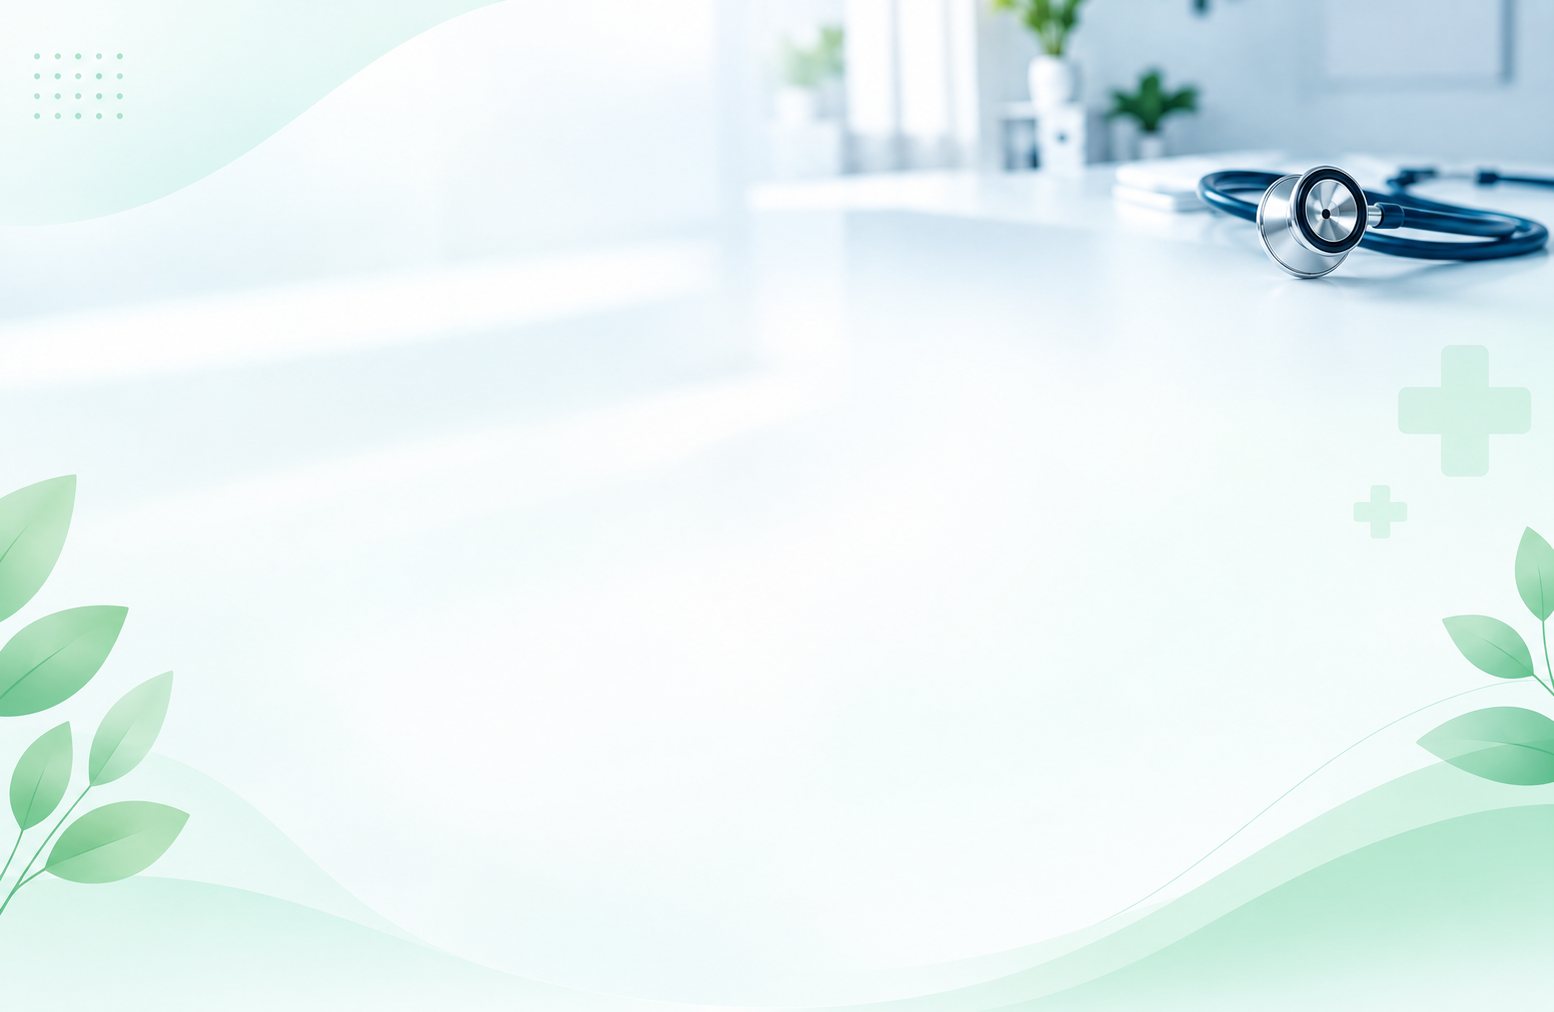
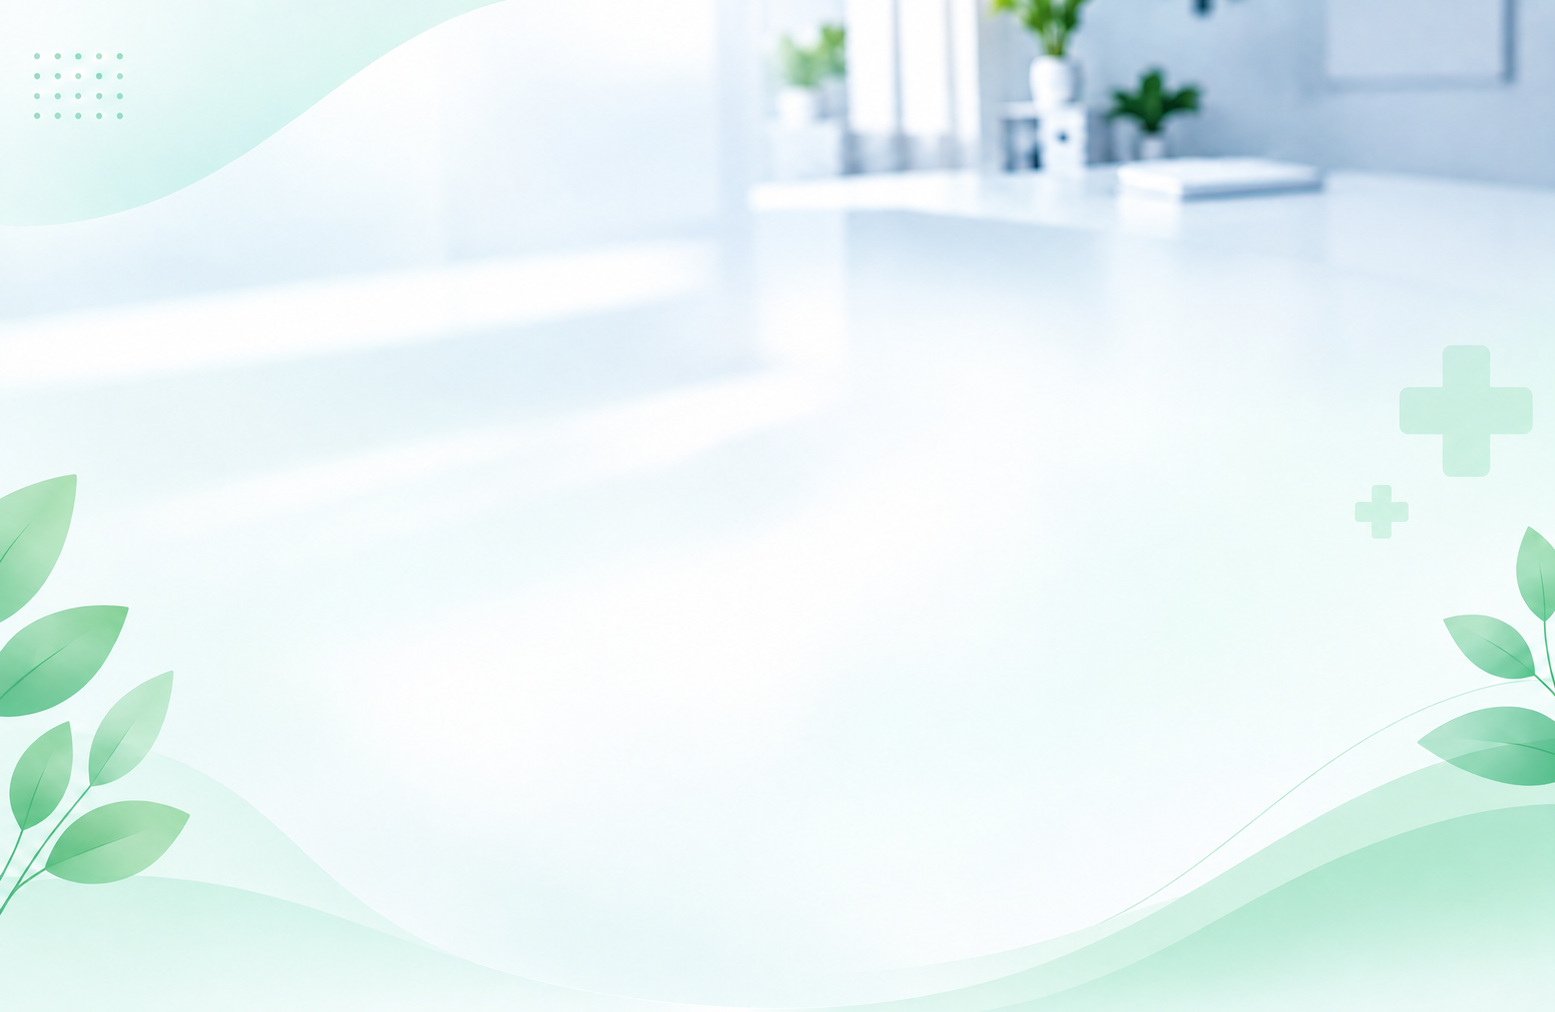
feat: add dark mode support to role login screen

diff --git a/lib/screens/auth/role_login_screen.dart b/lib/screens/auth/role_login_screen.dart
@@ -79,6 +79,10 @@ class _RoleLoginScreenState extends State<RoleLoginScreen> {
   }
 
   Widget _buildFeatureItem(IconData icon, String title, String subtitle) {
+    final isDark = Theme.of(context).brightness == Brightness.dark;
+    final textColor = isDark ? Colors.white : const Color(0xFF1E293B);
+    final subtitleColor = isDark ? const Color(0xFF94A3B8) : const Color(0xFF64748B);
+
     return Padding(
       padding: const EdgeInsets.only(bottom: 24.0),
       child: Row(
@@ -97,16 +101,16 @@ class _RoleLoginScreenState extends State<RoleLoginScreen> {
             children: [
               Text(
                 title,
-                style: const TextStyle(
+                style: TextStyle(
                   fontWeight: FontWeight.bold,
                   fontSize: 14,
-                  color: Color(0xFF1E293B),
+                  color: textColor,
                 ),
               ),
               const SizedBox(height: 2),
               Text(
                 subtitle,
-                style: const TextStyle(fontSize: 12, color: Color(0xFF64748B)),
+                style: TextStyle(fontSize: 12, color: subtitleColor),
               ),
             ],
           ),
@@ -119,9 +123,13 @@ class _RoleLoginScreenState extends State<RoleLoginScreen> {
   Widget build(BuildContext context) {
     final size = MediaQuery.of(context).size;
     final isWeb = size.width > 900;
+    final isDark = Theme.of(context).brightness == Brightness.dark;
+    
+    final scaffoldBg = isDark ? const Color(0xFF0F172A) : const Color(0xFFF8FAFC);
+    final shaderColor = isDark ? const Color(0xFF0F172A) : Colors.white;
 
     return Scaffold(
-      backgroundColor: const Color(0xFFF8FAFC),
+      backgroundColor: scaffoldBg,
       body: Stack(
         children: [
           // Background Image (Blurred)
@@ -131,7 +139,7 @@ class _RoleLoginScreenState extends State<RoleLoginScreen> {
                 return LinearGradient(
                   begin: Alignment.centerLeft,
                   end: Alignment.centerRight,
-                  colors: [Colors.white, Colors.white.withValues(alpha: 0.2)],
+                  colors: [shaderColor, shaderColor.withValues(alpha: 0.2)],
                   stops: const [0.4, 1.0],
                 ).createShader(rect);
               },
@@ -140,7 +148,7 @@ class _RoleLoginScreenState extends State<RoleLoginScreen> {
                 'assets/back.png',
                 fit: BoxFit.cover,
                 errorBuilder: (context, error, stackTrace) =>
-                    Container(color: const Color(0xFFE2E8F0)),
+                    Container(color: isDark ? const Color(0xFF1E293B) : const Color(0xFFE2E8F0)),
               ),
             ),
           ),
@@ -152,8 +160,8 @@ class _RoleLoginScreenState extends State<RoleLoginScreen> {
                   begin: Alignment.centerLeft,
                   end: Alignment.centerRight,
                   colors: [
-                    const Color(0xFFF8FAFC).withValues(alpha: 0.95),
-                    const Color(0xFFF8FAFC).withValues(alpha: 0.6),
+                    scaffoldBg.withValues(alpha: 0.95),
+                    scaffoldBg.withValues(alpha: 0.6),
                   ],
                 ),
               ),
@@ -244,6 +252,9 @@ class _RoleLoginScreenState extends State<RoleLoginScreen> {
   }
 
   Widget _buildWebLayout() {
+    final isDark = Theme.of(context).brightness == Brightness.dark;
+    final subtitleColor = isDark ? const Color(0xFF94A3B8) : const Color(0xFF64748B);
+
     return Center(
       child: ConstrainedBox(
         constraints: const BoxConstraints(maxWidth: 1200),
@@ -260,14 +271,14 @@ class _RoleLoginScreenState extends State<RoleLoginScreen> {
                   mainAxisAlignment: MainAxisAlignment.center,
                   children: [
                     Image.asset(
-                      'assets/LOGO.png',
+                      isDark ? 'assets/LOGO_DM.png' : 'assets/LOGO.png',
                       height: 80,
                       cacheHeight: 250,
                     ),
                     const SizedBox(height: 48),
-                    const Text(
+                    Text(
                       'Welcome to',
-                      style: TextStyle(fontSize: 24, color: Color(0xFF64748B)),
+                      style: TextStyle(fontSize: 24, color: subtitleColor),
                     ),
                     Text(
                       '${widget.roleName} Module',
@@ -284,9 +295,9 @@ class _RoleLoginScreenState extends State<RoleLoginScreen> {
                           : widget.roleName == 'Lab Test'
                           ? 'Manage your lab test bookings, reports\nand patient records effortlessly.'
                           : 'Manage patients, follow-ups and\ncustomer relationships efficiently.',
-                      style: const TextStyle(
+                      style: TextStyle(
                         fontSize: 16,
-                        color: Color(0xFF64748B),
+                        color: subtitleColor,
                         height: 1.5,
                       ),
                     ),
@@ -377,10 +388,17 @@ class _RoleLoginScreenState extends State<RoleLoginScreen> {
   }
 
   Widget _buildLoginCard() {
+    final isDark = Theme.of(context).brightness == Brightness.dark;
+    final cardColor = isDark ? const Color(0xFF1E293B) : Colors.white;
+    final textColor = isDark ? Colors.white : const Color(0xFF1E293B);
+    final subtitleColor = isDark ? const Color(0xFF94A3B8) : const Color(0xFF64748B);
+    final inputFillColor = isDark ? const Color(0xFF0F172A) : const Color(0xFFF8FAFC);
+    final borderColor = isDark ? const Color(0xFF334155) : const Color(0xFFE2E8F0);
+
     return Container(
       padding: const EdgeInsets.all(40),
       decoration: BoxDecoration(
-        color: Colors.white,
+        color: cardColor,
         borderRadius: BorderRadius.circular(24),
         boxShadow: const [
           BoxShadow(
@@ -411,33 +429,35 @@ class _RoleLoginScreenState extends State<RoleLoginScreen> {
             Text(
               'Access ${widget.roleName} Module',
               textAlign: TextAlign.center,
-              style: const TextStyle(
+              style: TextStyle(
                 fontSize: 22,
                 fontWeight: FontWeight.w900,
-                color: Color(0xFF1E293B),
+                color: textColor,
               ),
             ),
             const SizedBox(height: 8),
-            const Text(
+            Text(
               'Sign in to continue',
-              style: TextStyle(color: Color(0xFF64748B), fontSize: 14),
+              style: TextStyle(color: subtitleColor, fontSize: 14),
             ),
             const SizedBox(height: 32),
             TextFormField(
               controller: _userIdController,
               textInputAction: TextInputAction.next,
+              style: TextStyle(color: textColor),
               decoration: InputDecoration(
                 hintText: 'User ID',
+                hintStyle: TextStyle(color: subtitleColor),
                 prefixIcon: const Icon(Icons.person, color: Color(0xFF94A3B8)),
                 filled: true,
-                fillColor: const Color(0xFFF8FAFC),
+                fillColor: inputFillColor,
                 border: OutlineInputBorder(
                   borderRadius: BorderRadius.circular(12),
-                  borderSide: const BorderSide(color: Color(0xFFE2E8F0)),
+                  borderSide: BorderSide(color: borderColor),
                 ),
                 enabledBorder: OutlineInputBorder(
                   borderRadius: BorderRadius.circular(12),
-                  borderSide: const BorderSide(color: Color(0xFFE2E8F0)),
+                  borderSide: BorderSide(color: borderColor),
                 ),
               ),
               validator: (v) => v!.isEmpty ? 'Enter User ID' : null,
@@ -447,9 +467,11 @@ class _RoleLoginScreenState extends State<RoleLoginScreen> {
               controller: _passwordController,
               obscureText: _obscurePassword,
               textInputAction: TextInputAction.done,
+              style: TextStyle(color: textColor),
               onFieldSubmitted: (_) => _login(),
               decoration: InputDecoration(
                 hintText: 'Password',
+                hintStyle: TextStyle(color: subtitleColor),
                 prefixIcon: const Icon(Icons.lock, color: Color(0xFF94A3B8)),
                 suffixIcon: IconButton(
                   icon: Icon(
@@ -463,14 +485,14 @@ class _RoleLoginScreenState extends State<RoleLoginScreen> {
                   },
                 ),
                 filled: true,
-                fillColor: const Color(0xFFF8FAFC),
+                fillColor: inputFillColor,
                 border: OutlineInputBorder(
                   borderRadius: BorderRadius.circular(12),
-                  borderSide: const BorderSide(color: Color(0xFFE2E8F0)),
+                  borderSide: BorderSide(color: borderColor),
                 ),
                 enabledBorder: OutlineInputBorder(
                   borderRadius: BorderRadius.circular(12),
-                  borderSide: const BorderSide(color: Color(0xFFE2E8F0)),
+                  borderSide: BorderSide(color: borderColor),
                 ),
               ),
               validator: (v) => v!.isEmpty ? 'Enter password' : null,
